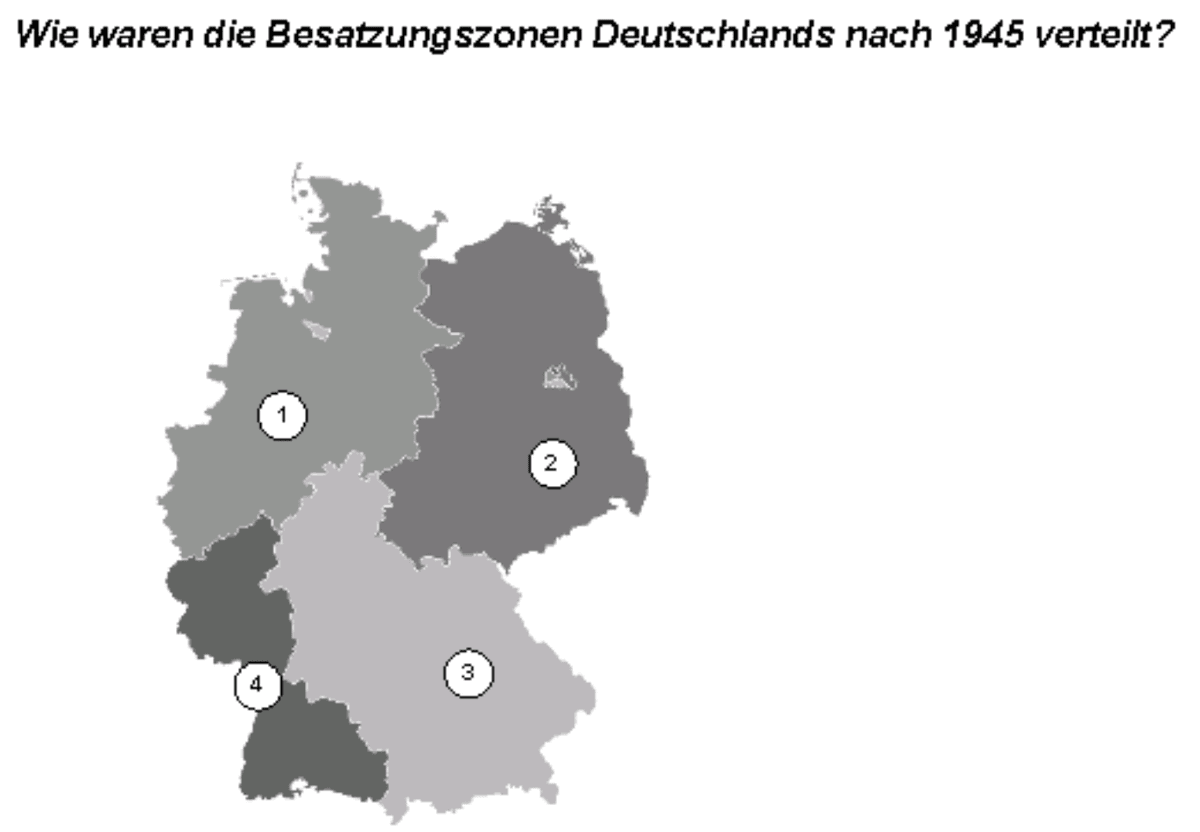
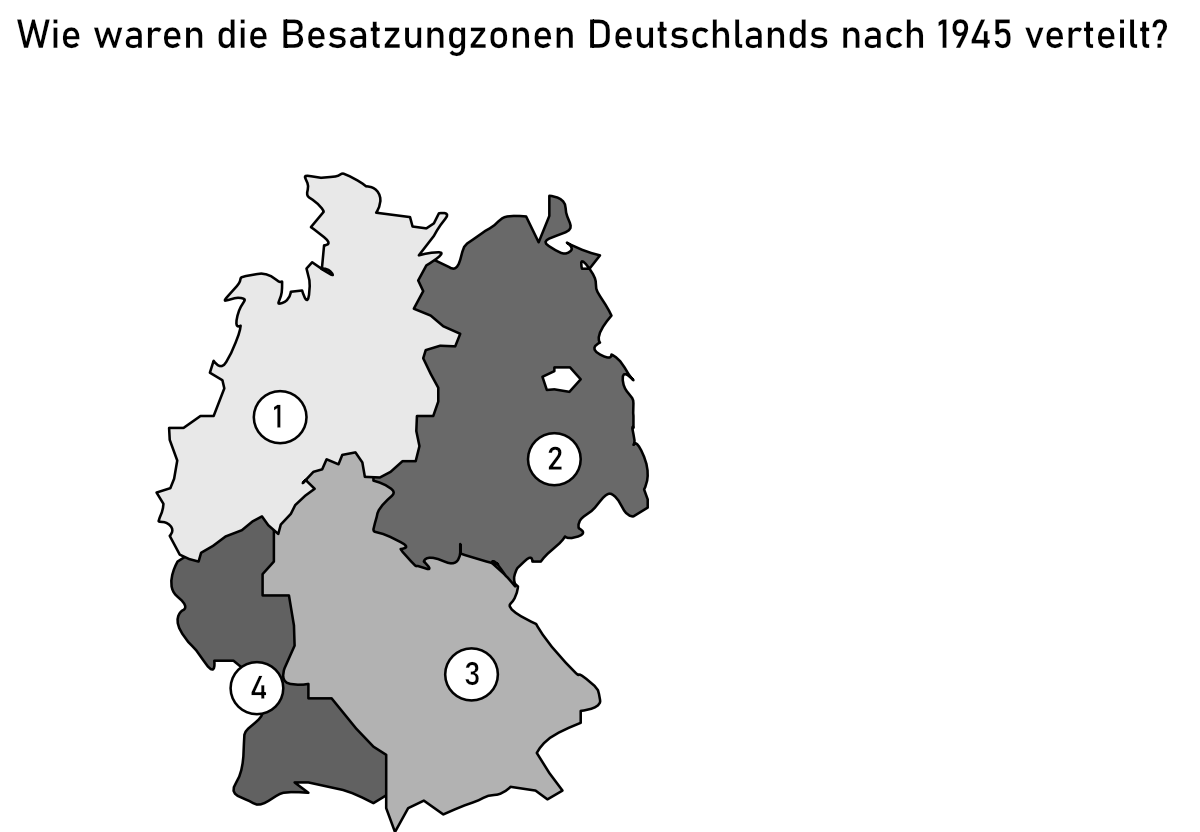
Replace B176 image with corrected redraw

diff --git a/README.md b/README.md
@@ -38,7 +38,7 @@ No web server is required; `data/questions.js`, `data/vocabulary.js` and `data/i
[1 lines of base64/hex data omitted]
   <https://www.bamf.de/SharedDocs/Anlagen/DE/Integration/Einbuergerung/gesamtfragenkatalog-lebenindeutschland.html?nn=284310>
 - **Answers, English translations, explanations and images**: [abdullahbutt/leben-in-deutschland-test](https://github.com/abdullahbutt/leben-in-deutschland-test), version 2026-10-28. **The German question and option wording is taken verbatim from the official BAMF PDF**; the dataset supplies the answer key, English translations, explanations and images. The translations and explanations are licensed under **CC BY-NC 4.0** (attribution, non-commercial use). `data/overrides.json` contains manual corrections for the few items where the dataset described a different paraphrase (e.g. B232, B247, HB02, SN07).
-- **B021, B055, B070 and B130 images**: `data/images/21.png`, `data/images/55.png`, `data/images/70.png` and `data/images/130.png` are redrawn replacements added for this project; the remaining images come from the dataset.
+- **B021, B055, B070, B130 and B176 images**: `data/images/21.png`, `data/images/55.png`, `data/images/70.png`, `data/images/130.png` and `data/images/176.png` are redrawn replacements added for this project; the remaining images come from the dataset.
 - This is an independent learning app, not an official BAMF product. Use is intended for personal, non-commercial exam preparation.
 
 ## Project layout
